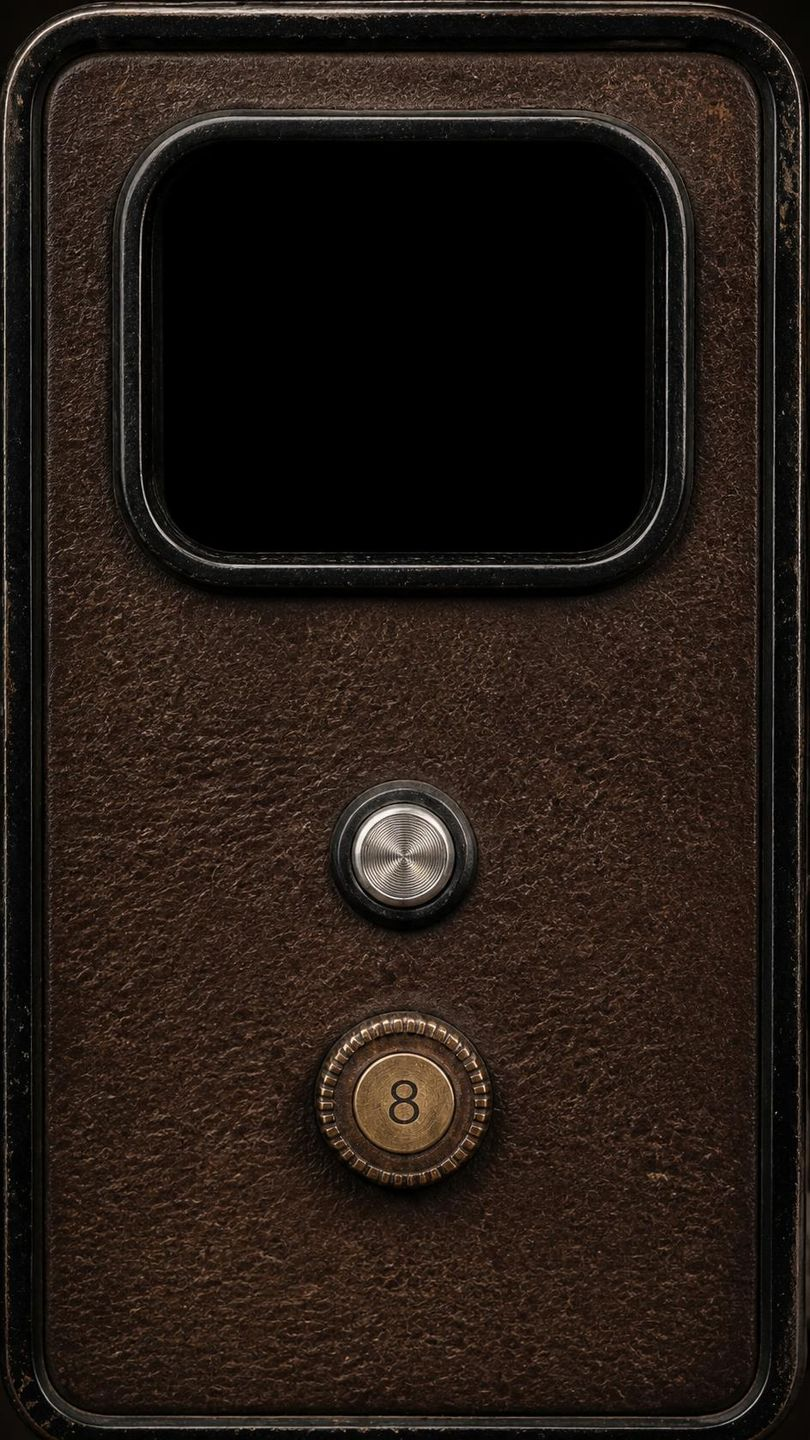
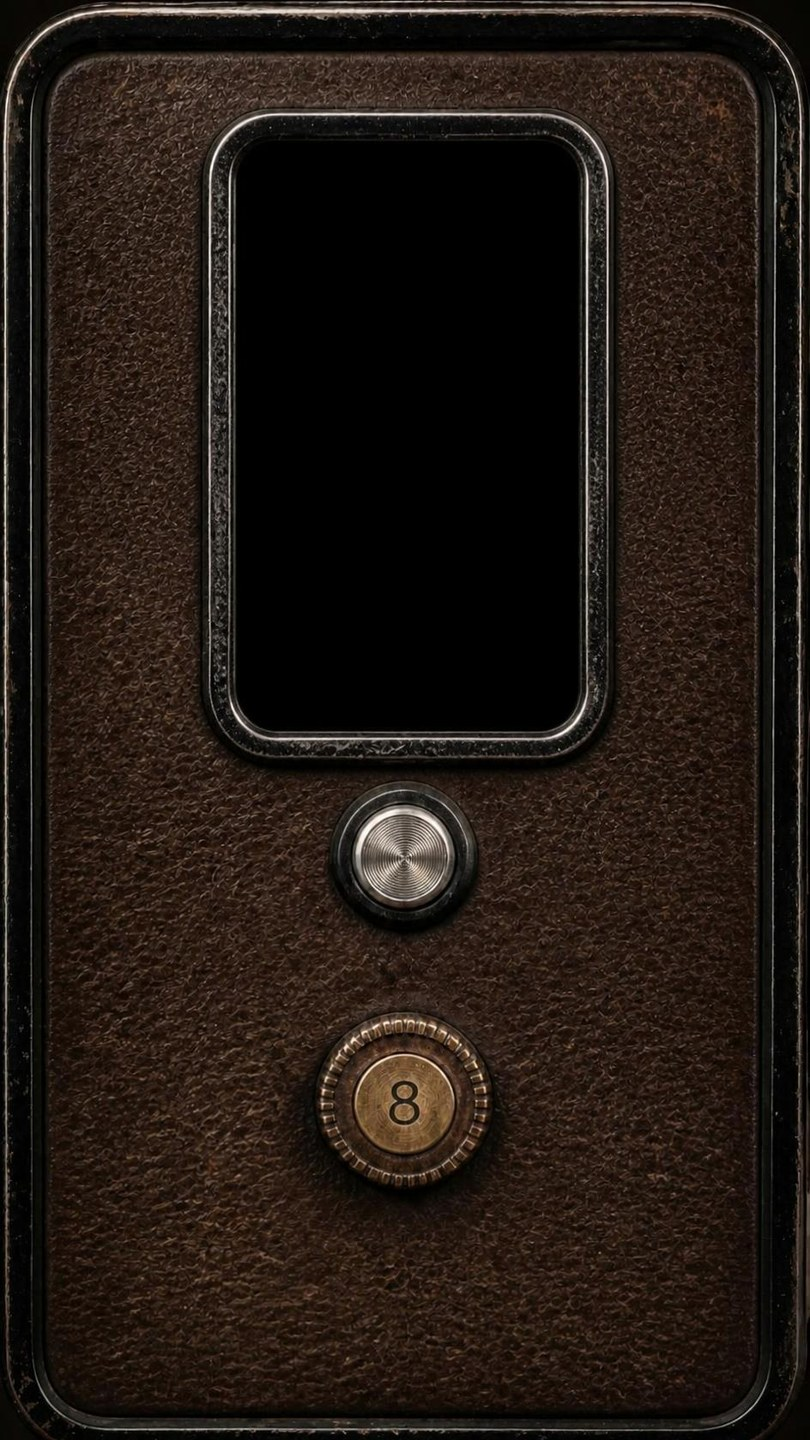
Super 8 com visor em pé no formato da foto (imagem nova da Vivian)
Claude-Session: https://claude.ai/code/session_019kqAkVGodtTPLnZ4JhFLF3

diff --git a/app/index.html b/app/index.html
@@ -7,7 +7,7 @@
 <link rel="icon" href="img/icone-192.png">
 <link rel="apple-touch-icon" href="img/icone-192.png">
 <link rel="manifest" href="manifest.webmanifest">
-<script>window.__VERSAO = "10/10 · 12:09";</script>
+<script>window.__VERSAO = "10/10 · 12:13";</script>
 <script src="config.js"></script>
 <script src="shim.js"></script>
 <style>*,*::before,*::after{box-sizing:border-box}html,body{margin:0;height:100%}</style>
@@ -5038,7 +5038,7 @@ const FOTO_CAM = {
   rajastao: { visor: [.224, .19, .761, .77], botao: [.498, .875, .08], selfie: [.84, .88] },
   descartavel: { visor: [.705, .385, .915, .565], botao: [.350, .493, .13], selfie: [.82, .8] },
   instantanea: { visor: [.32, .21, .68, .44], botao: [.503, .699, .11], selfie: [.8, .86] },
-  super8: { visor: [.357, .093, .643, .38], botao: [.498, .601, .09], selfie: [.8, .76] },
+  super8: { visor: [.292, .097, .713, .507], botao: [.498, .598, .09], selfie: [.8, .76] },
   quatro: { visor: [.255, .31, .73, .625], botao: [.512, .786, .09], selfie: [.8, .88], luzes: [.356, .433, .512, .589].map(y => [.146, y]) },
   // a de madeira mostra a imagem de cabeça para baixo no vidro fosco, como as câmeras de campo de verdade
   campo: { visor: [.15, .127, .559, .489], botao: [.694, .815, .09], selfie: [.24, .78] },

diff --git a/app/caravana-do-ceu.html b/app/caravana-do-ceu.html
@@ -5024,7 +5024,7 @@ const FOTO_CAM = {
   rajastao: { visor: [.224, .19, .761, .77], botao: [.498, .875, .08], selfie: [.84, .88] },
   descartavel: { visor: [.705, .385, .915, .565], botao: [.350, .493, .13], selfie: [.82, .8] },
   instantanea: { visor: [.32, .21, .68, .44], botao: [.503, .699, .11], selfie: [.8, .86] },
-  super8: { visor: [.357, .093, .643, .38], botao: [.498, .601, .09], selfie: [.8, .76] },
+  super8: { visor: [.292, .097, .713, .507], botao: [.498, .598, .09], selfie: [.8, .76] },
   quatro: { visor: [.255, .31, .73, .625], botao: [.512, .786, .09], selfie: [.8, .88], luzes: [.356, .433, .512, .589].map(y => [.146, y]) },
   // a de madeira mostra a imagem de cabeça para baixo no vidro fosco, como as câmeras de campo de verdade
   campo: { visor: [.15, .127, .559, .489], botao: [.694, .815, .09], selfie: [.24, .78] },

diff --git a/app/sw.js b/app/sw.js
@@ -1,4 +1,4 @@
-// marca: befc3b8c8b
+// marca: 3e8abba211
 // Guarda o app inteiro no celular para abrir mesmo sem sinal (templo, estrada, wi-fi fraco do hotel).
 const CACHE = "caravana-v6", EXTRA = "caravana-ext", MAPA = "caravana-mapa";
 // lista de arquivos gerada pelo tools/gerar-site.py
